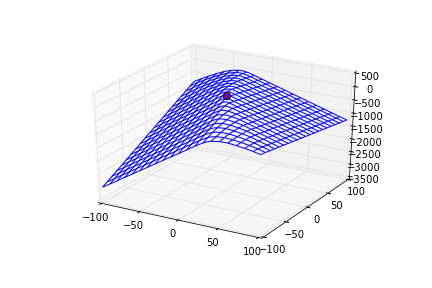
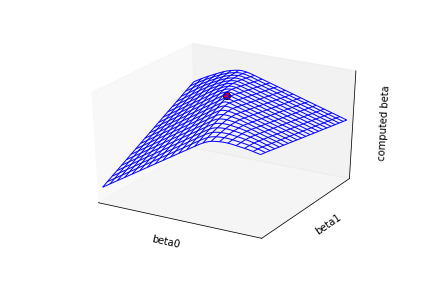
new plots

diff --git a/ub08/logisticRegression.py b/ub08/logisticRegression.py
@@ -62,16 +62,19 @@ def logLikelyhood(x,y,beta):
 spiders = np.genfromtxt('spiders.txt',delimiter=",")
 data,sand, isSpider = [],[],[]
 
+# import data
 for row in spiders:
     sand.append(row[0])
     isSpider.append(row[1])
     data.append((1,row[0]))
 beta = np.zeros(len(data[0]))
-  
+
+# 2D  
 #plt.plot(sand,isSpider,'ro')
 
 beta =  gradientDescent(data,isSpider,beta,0.1)
 print ("beta", beta)
+# 3D
 print ("Log-Likelyhood Spiders: ", logLikelyhood(data,isSpider,beta)+1)
 print ("Log-Likelyhood beta0: ", logLikelyhood(data,isSpider,beta0))
 
@@ -87,11 +90,24 @@ ax.scatter(beta[0],beta[1],logLikelyhood(data,isSpider,beta),c="red",marker="o",
 #==============================================================================
 #  __plot-configs__
 #==============================================================================
+# 2D
 #plt.xlim(0.2,1.1)
 #plt.ylim(-0.1,1.1)
+##plt.xticks([])
+##plt.yticks([])
+#plt.xlabel("grain-size")
+#plt.ylabel("probability")
+#plt.savefig("spider_plot.png")
+# 3D
 ax.set_xlim3d(-100,100)
 ax.set_ylim3d(-100,100)
-
-
+ax.set_xlabel("beta0")
+ax.set_ylabel("beta1")
+ax.set_zlabel("computed beta")
+# hide the axes-numbers
+ax.set_xticks([])                               
+ax.set_yticks([])                               
+ax.set_zticks([])
 plt.savefig("3D_spiders_plot.png")
+
 plt.show()
